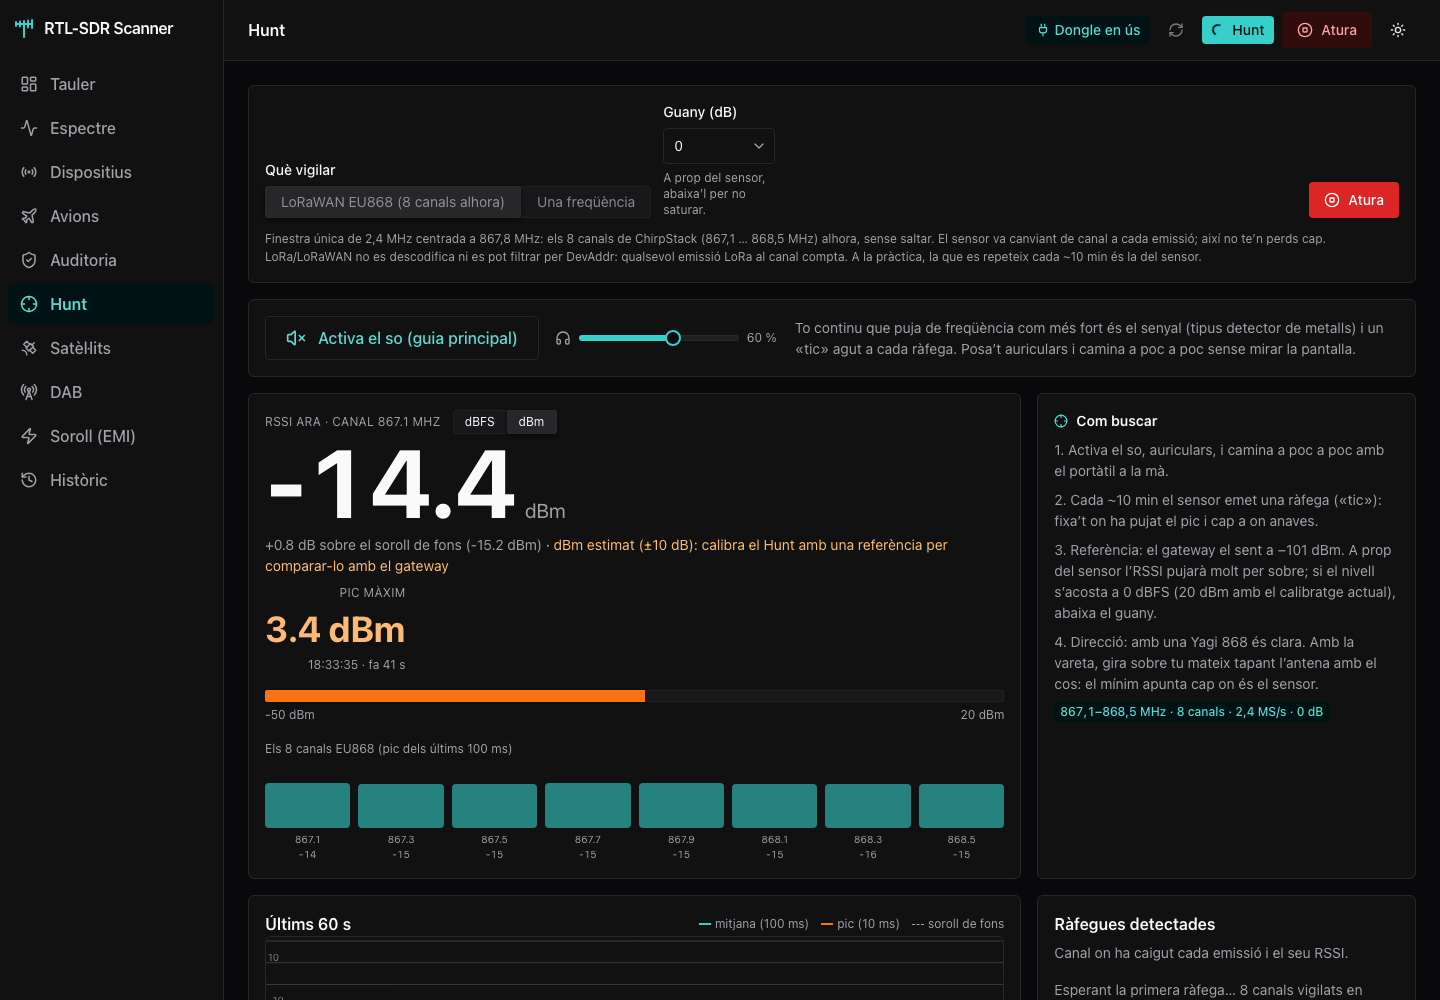
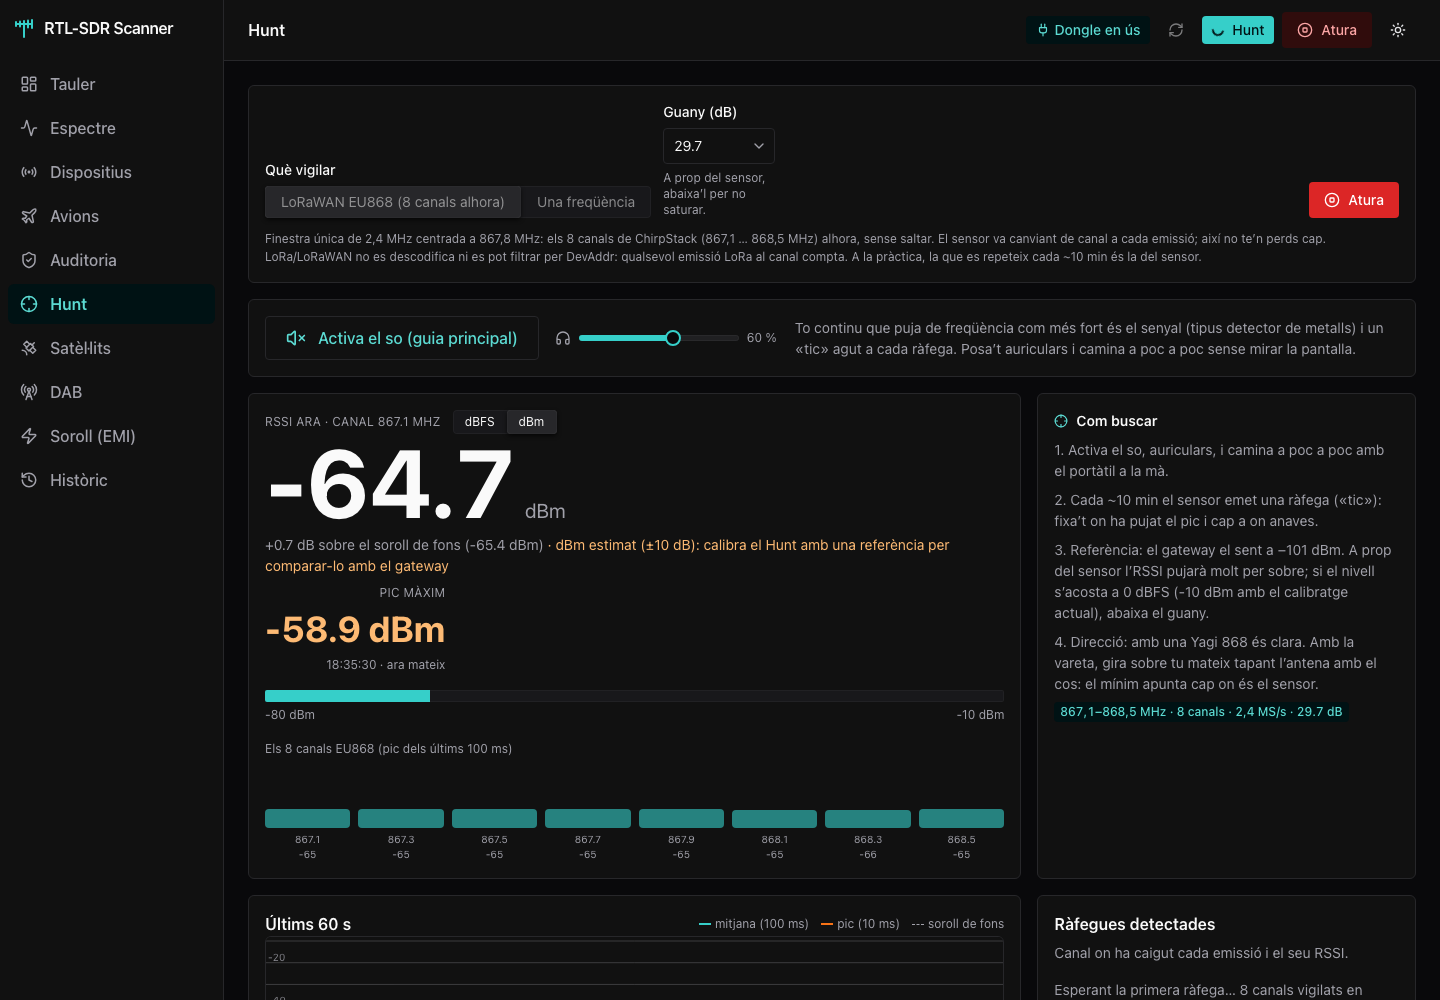
Calibration: cap the raw-IQ estimate at -5 dBm full scale
Claude-Session: https://claude.ai/code/session_01CEVW8m1i7brZ8kgXJh7Qwz

diff --git a/server/src/sdr/calibration.ts b/server/src/sdr/calibration.ts
@@ -55,7 +55,8 @@ export function offsetFor(cal: Calibration | null, gainDb: number, scale: CalSca
     const shift = nearest.gainDb - gainDb; // more gain → higher reading → more negative offset
     return { offsetDb: r1(nearest.offsetDb + shift), source: 'derived', uncertaintyDb: 3 + Math.min(6, Math.abs(shift) / 5), fromGainDb: nearest.gainDb };
   }
-  if (scale === 'iq') return { offsetDb: r1(ESTIMATED_IQ_OFFSET_AT_MAX_GAIN - (gainDb - MAX_GAIN)), source: 'estimated', uncertaintyDb: 10, fromGainDb: null };
+  // Full scale never sits above about −5 dBm at the antenna, whatever the (low) gain: cap the linear estimate.
+  if (scale === 'iq') return { offsetDb: r1(Math.min(-5, ESTIMATED_IQ_OFFSET_AT_MAX_GAIN - (gainDb - MAX_GAIN))), source: 'estimated', uncertaintyDb: 10, fromGainDb: null };
   return { offsetDb: r1(ESTIMATED_OFFSET_AT_40 - (gainDb - 40)), source: 'estimated', uncertaintyDb: 6, fromGainDb: null };
 }
 

diff --git a/server/test/calibration.test.ts b/server/test/calibration.test.ts
@@ -36,6 +36,7 @@ describe('calibration scales', () => {
     expect(offsetFor(null, 29.7, 'iq')).toMatchObject({ source: 'estimated', uncertaintyDb: 10 });
     expect(offsetFor(null, 49.6, 'iq').offsetDb).toBe(-30);
     expect(offsetFor(null, 29.7, 'iq').offsetDb).toBeCloseTo(-10.1, 1);
+    expect(offsetFor(null, 0, 'iq').offsetDb).toBe(-5); // capped: full scale is never above −5 dBm
     let cal = upsertEntry(null, { scale: 'iq', gainDb: 29.7, freqHz: 868_100_000, measuredDb: -42, refDbm: -101, note: 'gateway' });
     expect(offsetFor(cal, 29.7, 'iq')).toMatchObject({ source: 'calibrated', offsetDb: -59 });
     expect(offsetFor(cal, 29.7, 'power').source).toBe('estimated'); // iq entry must not leak into power
